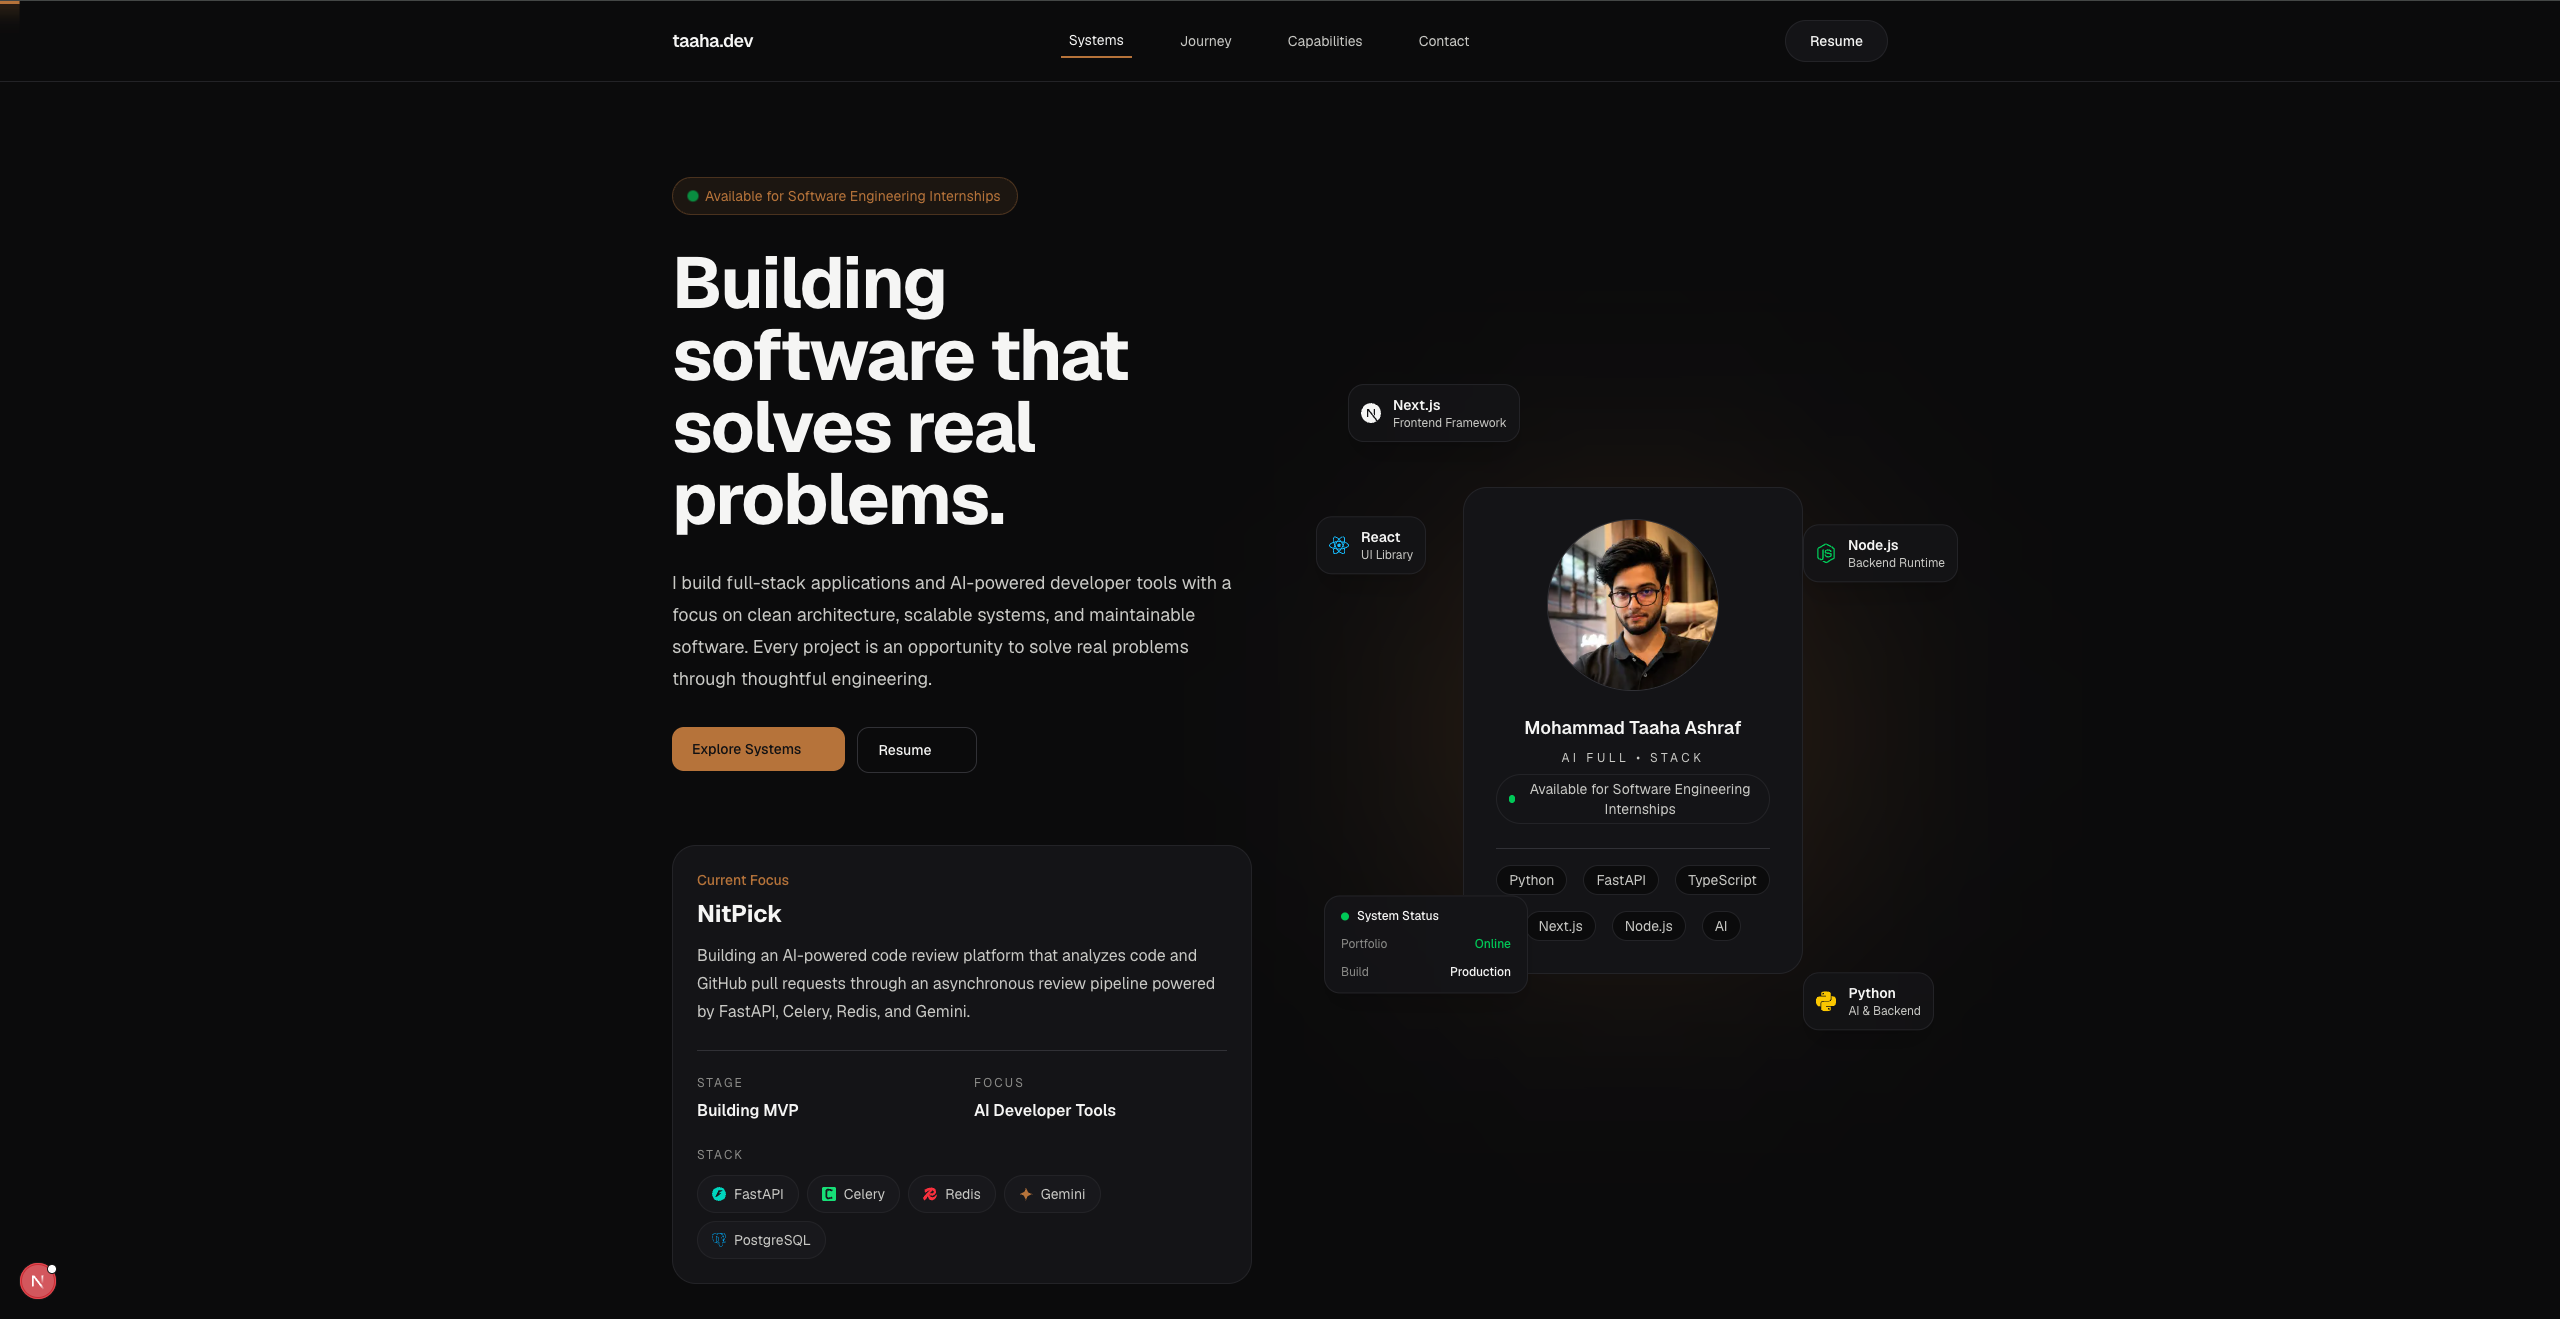
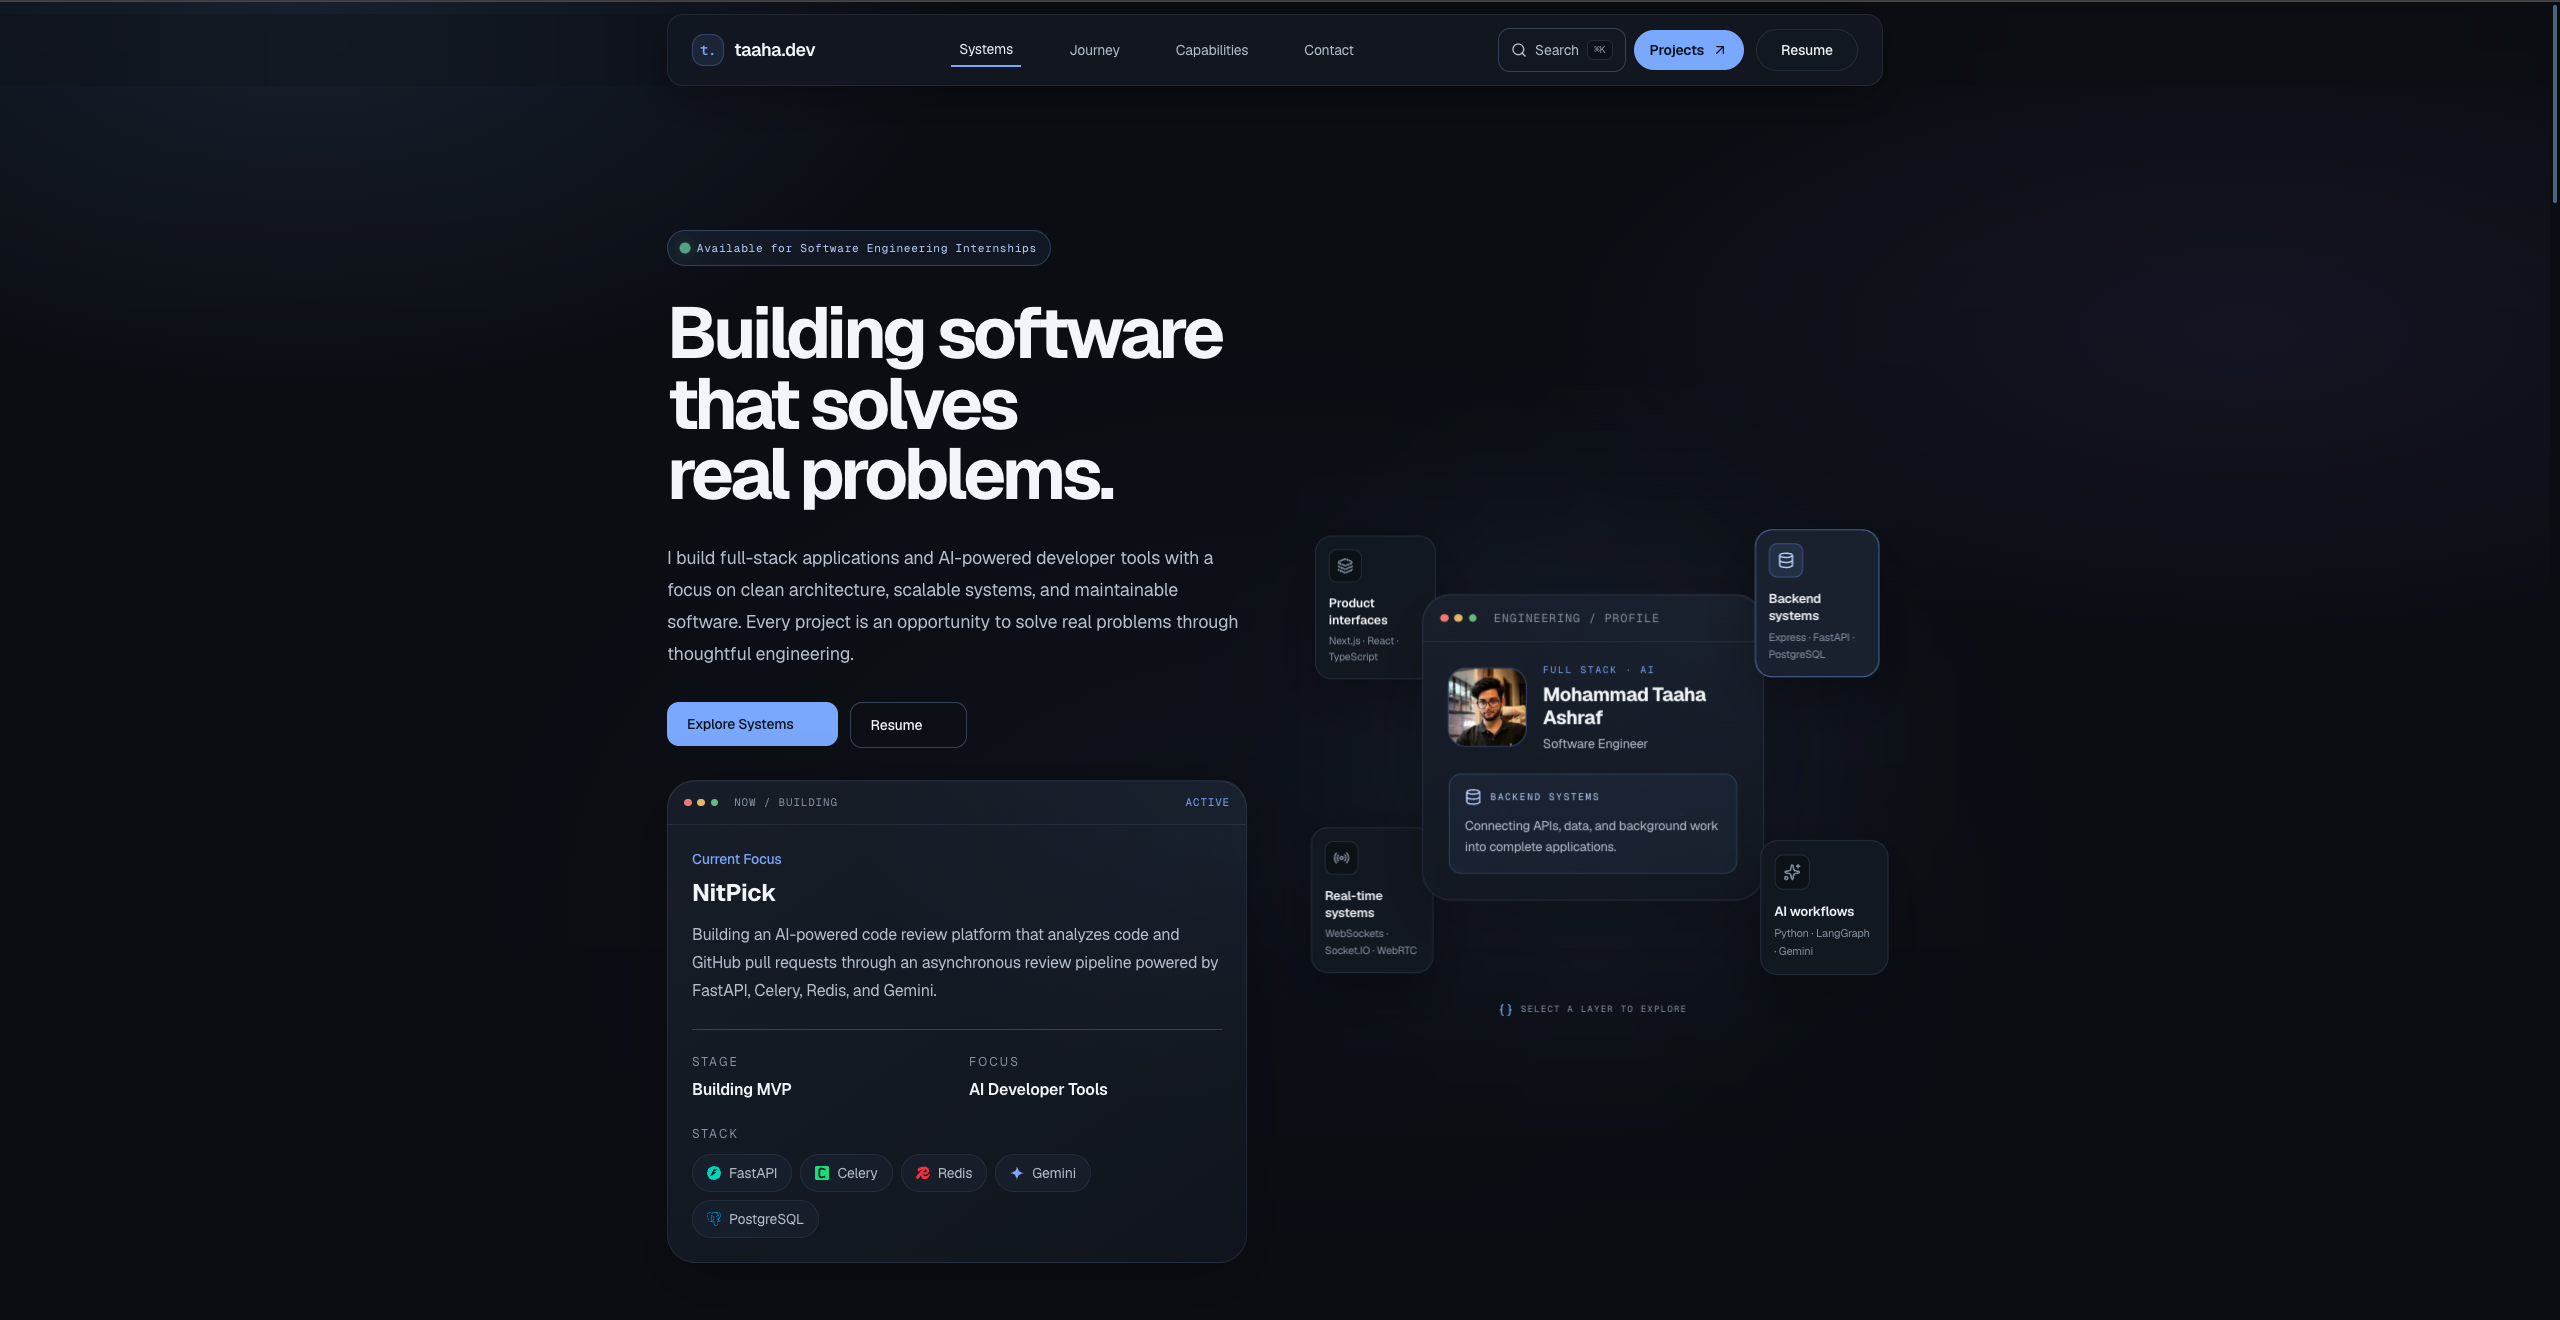
chore: map cover images of projects

diff --git a/app/config/systems.ts b/app/config/systems.ts
@@ -59,9 +59,7 @@ export const projects: readonly System[] = [
       "Turborepo Monorepo",
     ],
     technologies: ["Next.js 15", "Turborepo", "WebSockets", "PostgreSQL", "Tailwind CSS", "pnpm"],
-    image: "/images/projects/exac-draw/cover.svg",
-    imageAlt: "Stylized illustration of a collaborative whiteboard interface",
-    imageKind: "illustration",
+    image: "/images/projects/exac-draw/cover.png",
     github: "https://github.com/m-taaha/exac-draw",
     live: "https://exac-draw-web.vercel.app/",
     browserUrl: "exac-draw-web.vercel.app",
@@ -188,9 +186,7 @@ export const projects: readonly System[] = [
       "Cloudinary Media Workflows",
     ],
     technologies: ["Next.js 14", "TypeScript", "Prisma 7", "PostgreSQL", "Auth.js v5", "Tailwind CSS", "Cloudinary", "Tiptap"],
-    image: "/images/projects/musafir-trips/cover.svg",
-    imageAlt: "Stylized illustration of a travel content management dashboard",
-    imageKind: "illustration",
+    image: "/images/projects/musafir-trips/cover.png",
     github: "https://github.com/m-taaha/musafir-trips",
     live: "https://musafir-trips.vercel.app/",
     browserUrl: "musafir-trips.vercel.app",
